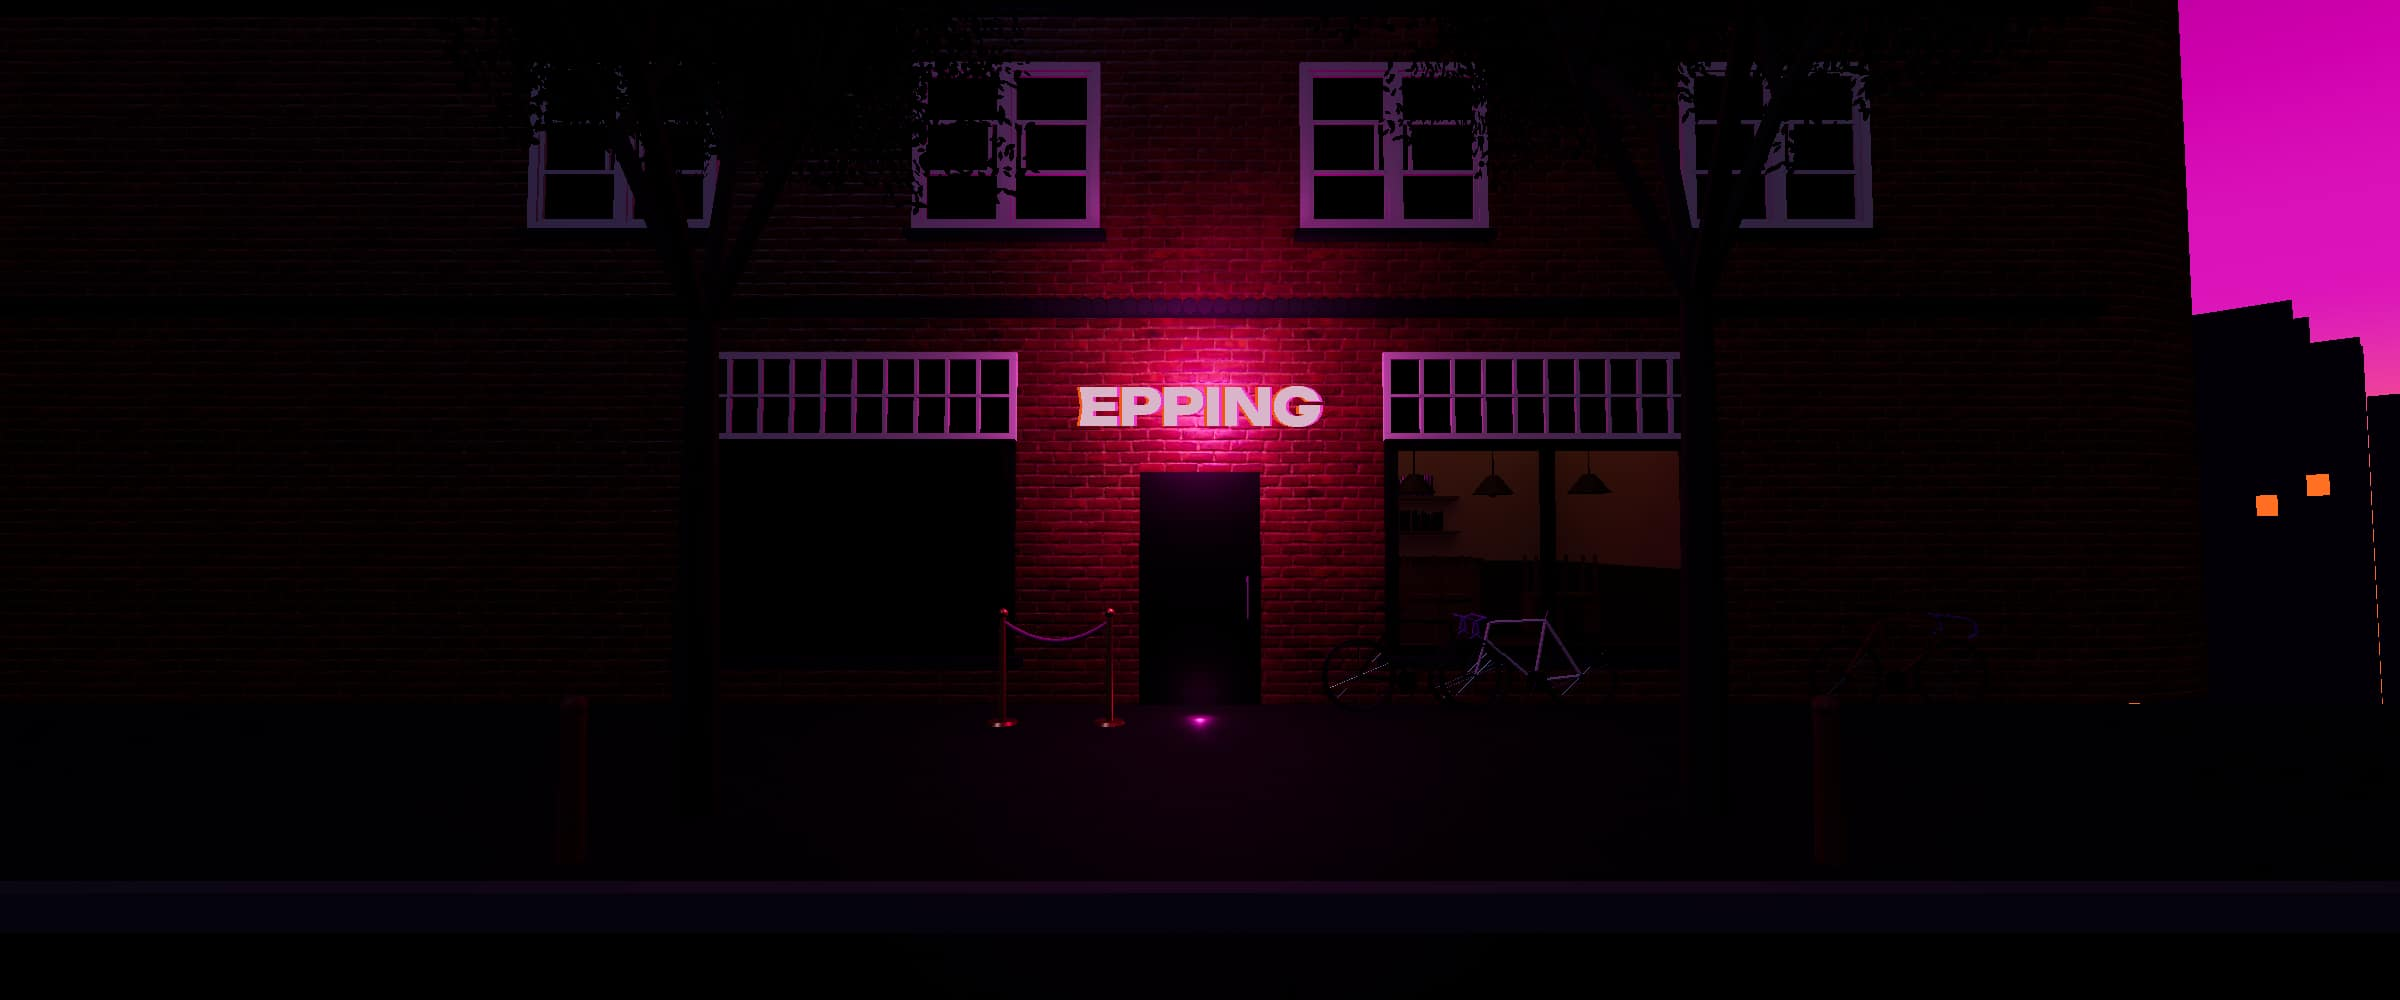
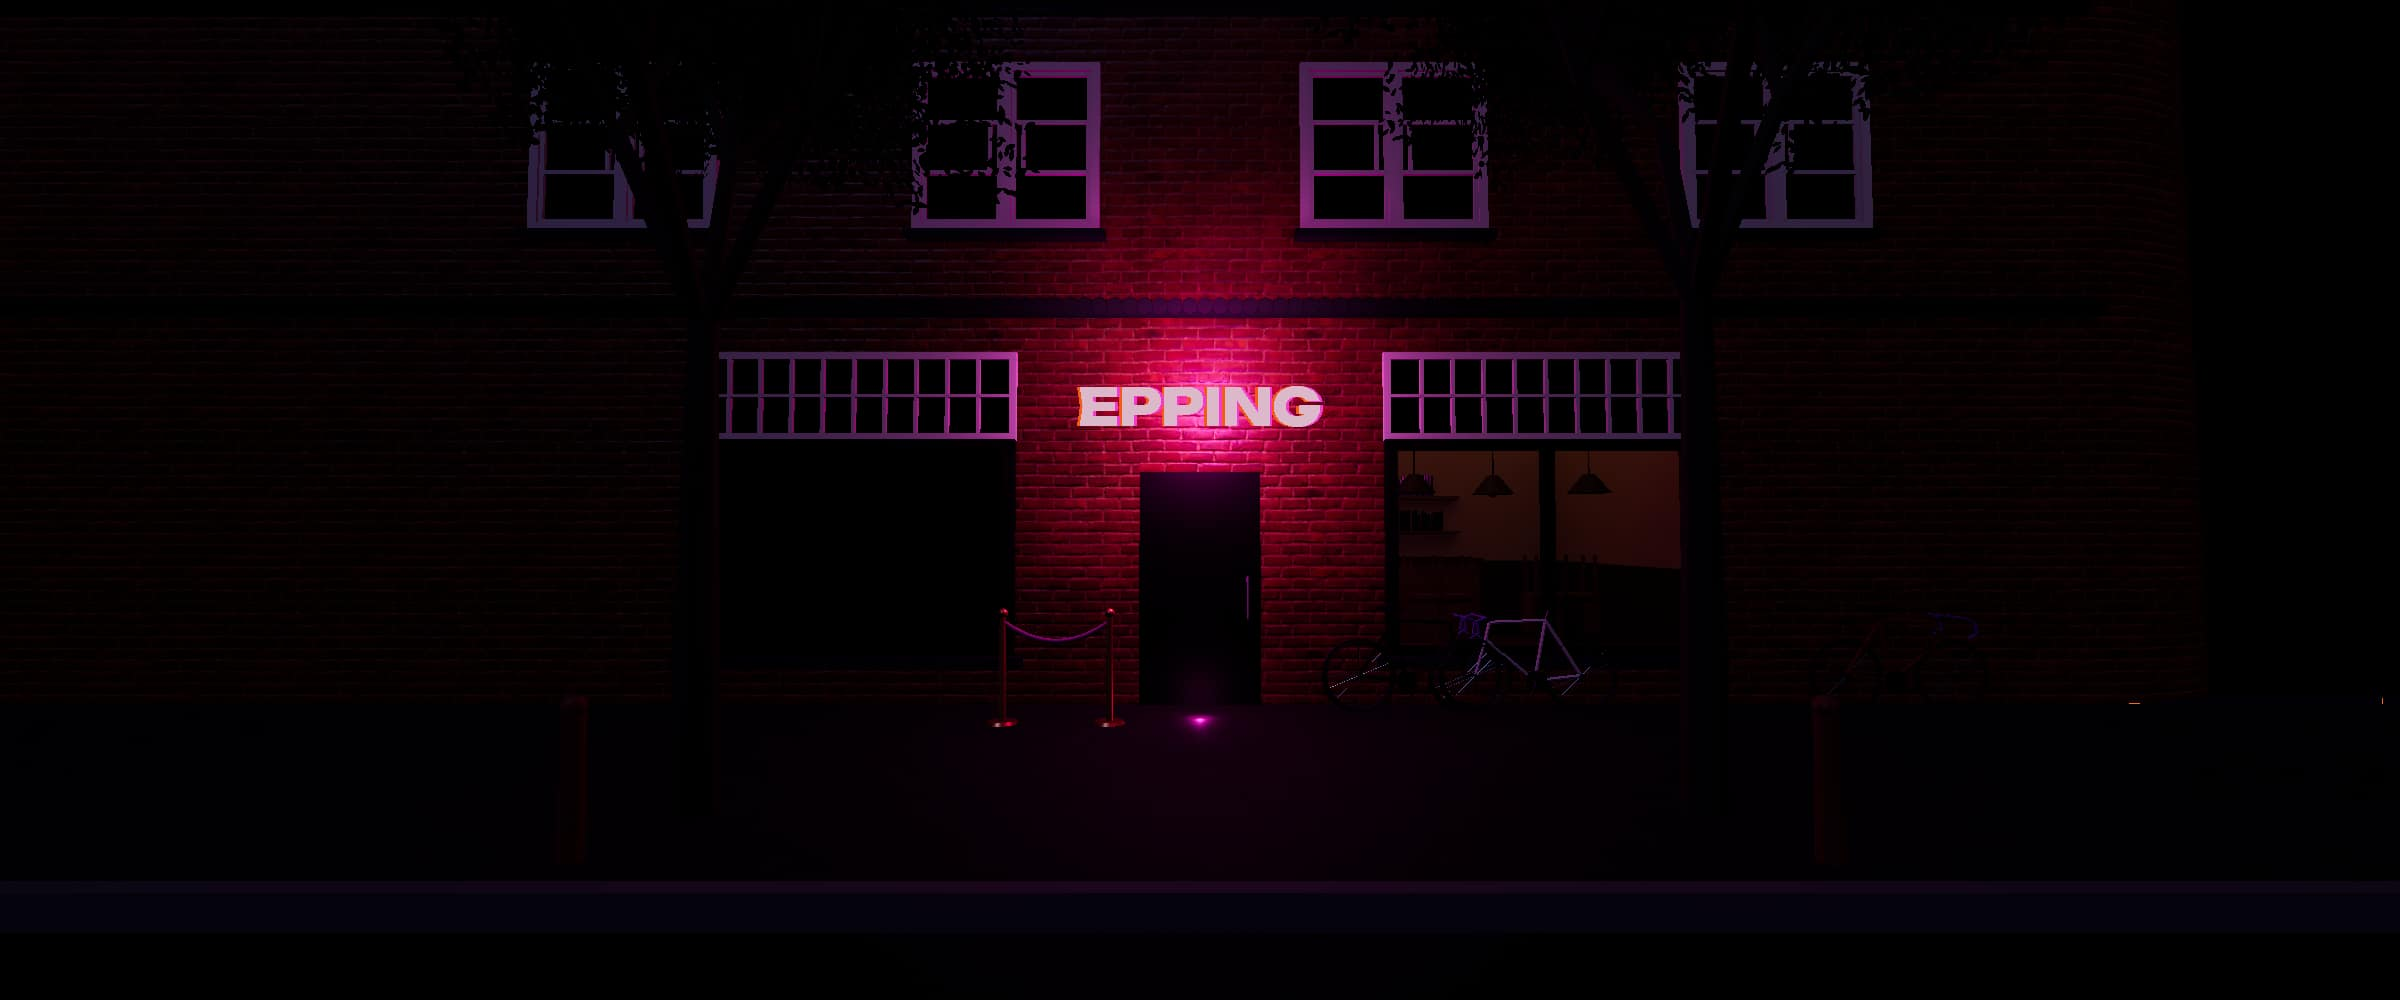
Street: dark block past the right corner (pink sky on wide screens), new stills

Changed region(s): [[0.9062, 0.0, 1.0, 0.403], [0.9375, 0.465, 0.9688, 0.527]]

diff --git a/src/entrance/world.ts b/src/entrance/world.ts
@@ -159,6 +159,9 @@ export function buildWorld(): World {
   // dark ground just under the road: hairline cracks between kerb and road (seen on iPhones) showed the orange sky below the horizon
   const under = new THREE.Mesh(new THREE.PlaneGeometry(80, 40), new THREE.MeshBasicMaterial({ color: C('#020103') }));
   under.rotation.x = -Math.PI / 2; under.position.set(0, -0.26, 20); scene.add(under);
+  // a dark neighbouring block past the round corner on the right: on wide screens the pink sky (and a lit skyline window) showed there
+  const block = new THREE.Mesh(new THREE.BoxGeometry(30, 30, 40), new THREE.MeshBasicMaterial({ color: C('#050207') }));
+  block.position.set(11.6 + 15, 15 - 0.3, -2.0 - 20); scene.add(block); // street only: from the roof it would wall off the skyline
 
   // the door: plain black leaf, hinged on the left, swings inward
   const doorMat = new THREE.MeshStandardMaterial({ color: C('#040205'), roughness: 0.55 });
@@ -480,6 +483,7 @@ export function buildWorld(): World {
   const tmp = new THREE.Color();
   function update(t: number, kick: number, camera: THREE.Camera) {
     sky.position.copy(camera.position);
+    block.visible = camera.position.y < 5;
     const k = 0.6 + 0.4 * kick;
     for (const p of pulse) p.mat.color.copy(p.base).multiplyScalar(lerp(1, k, p.k));
     for (let i = 0; i < N; i++) noses.setColorAt(i, tmp.copy(noseBase[i]).multiplyScalar(k));

diff --git a/AGENTS.md b/AGENTS.md
@@ -30,7 +30,7 @@ Website for Epping: DJ and party organizer. (`CLAUDE.md` is a symlink to this fi
 - **Street still: LIVE since 2026-10-06** (`poster` merged): no loader at all. A still of the street's opening frame (`public/media/street-{landscape,portrait}.jpg`, 90/60 KB) shows instantly; the canvas renders invisibly behind it and takes over once the street + all its textures are in. The street model + Draco decoder are preloaded from the head script. Preview https://claude.ai/artifact/Ty3FzGoKFTGsZPCPbJNf3S. **Re-render the stills after any street change:** Playwright screenshot of the live 3D street (HUD + hint hidden, ~3 s after `ent-3d`) at 2400×1000 (landscape) and 1200×1201 (portrait, so fov 74), dpr 1, then sharp → JPEG q72 mozjpeg.
 - **Door pace: LIVE since 2026-10-06** (`door-pace` merged): tapping the street door walks slower and smoother (~4.5 s, sine easing, ends at p 0.38), the walk and the step through the doorway now share one steady pace (the old version slowed at the door, then lurched through), and the door opens over a longer stretch. Preview https://claude.ai/artifact/Ty3FzGoKFTGsZPCPbJNf3S.
 - **Teaser post (open, 2026-10-06):** the user doubts how busy the street is; deciding via an Instagram teaser of the door (video later, only the sign flickers). Mockups A–E (A as live, B dark café + no flyer, C brick wall, D brick wall close, E = B without bikes/trees): https://claude.ai/artifact/MyJK2gUXHVx8rFhzUqCie2, source + 1080×1350 renders in `media EPPING website/ig-teaser/`. Rendered from the live scene with a temporary `window.__ent` hook in app.ts (not committed) and Playwright edits: hide by material name (`cafe_*`, `bike*`, `leaf`, `bark`…), flyer = mesh at x −2.5, brick wall = textured plane at z 0.25 with a door hole, sign + door moved forward. Pick → maybe apply to the site. **Decision (user, 2026-10-06): option C (brick wall: no shopfronts, café, upstairs windows or flyer) and no bikes**, for the post and the site. Trees stay for now. Realism is not a goal: it just needs to look cool, make people curious about the door, and put the brand first. Mockup 'C, without the bikes' (post + site desktop/phone) is at the top of the same page. Next: apply to the site (and decide on the styling ideas: stronger pink wash/vignette, ground haze, brighter door leak, bigger sign, Presents flyer pasted on the wall), then the teaser video (sign flicker).
-- **Street v2: LIVE since 2026-10-06** (`dark-window` merged): `blender/street.py` re-baked (Metal GPU, ~5 min; then recompress lightmaps q76 + re-render the loading stills). Symmetric facade around the door (both shop windows 1.9..5.0 m), upstairs windows after the user's photo `media EPPING website/inbox/IMG_4616.heic` (two off-white casements: tall top pane, middle row split near the centre post, bottom pane; first floor at x ±1.95/±5.8, floors above ±2.95/±6.8, all dark), trees mirrored at ±3.0, café soft-lit with its pendant off (`CAFE_LIT`, `CAFE_LAMP`), no Presents flyer. Window frames crisper since 2026-10-07 (branch `crisp-windows`): trim lightmap 2048 (q84) and lightmap UVs repacked square (`pack_islands` CARDINAL), since islands at odd angles gave the thin bars jagged edges. Bikes still only on the right.
+- **Street v2: LIVE since 2026-10-06** (`dark-window` merged): `blender/street.py` re-baked (Metal GPU, ~5 min; then recompress lightmaps q76 + re-render the loading stills). Symmetric facade around the door (both shop windows 1.9..5.0 m), upstairs windows after the user's photo `media EPPING website/inbox/IMG_4616.heic` (two off-white casements: tall top pane, middle row split near the centre post, bottom pane; first floor at x ±1.95/±5.8, floors above ±2.95/±6.8, all dark), trees mirrored at ±3.0, café soft-lit with its pendant off (`CAFE_LIT`, `CAFE_LAMP`), no Presents flyer. Window frames crisper since 2026-10-07 (branch `crisp-windows`): trim lightmap 2048 (q84) and lightmap UVs repacked square (`pack_islands` CARDINAL), since islands at odd angles gave the thin bars jagged edges. Dark block past the right corner (`block` in world.ts, street only) hides the pink sky on wide screens; the teaser blackout also covers the threshold (an orange sky line showed under it). Bikes still only on the right.
 - **Teaser: LIVE since 2026-10-06** (coming soon, option B): through the street door the screen fades to black with the flickering EPPING sign, "Doors open soon", "Follow @epping.music" and "Back to the street" (`.soon` in Entrance.astro, `TEASER` in app.ts: the open door shows only black (`world.blackout`, no stairs visible), the fade is tied to the walk (black by p 0.36), scrolling stops in the doorway (p 0.37), Skip hidden, music keeps playing muffled; Umami event `teaser-soon`). Floor pages and the no-3D page stay reachable (user's choice). **At launch:** `TEASER = false`, remove `.soon`. Teaser post from the live street v2: `~/Downloads/epping-teaser-post-street.jpg` (1080×1350, copy in `media EPPING website/ig-teaser/`); the older brick-wall one is `epping-teaser-post.jpg`. Teaser video (2026-10-07): `~/Downloads/epping-teaser-video.mp4` (1080×1350, 10 s, 30 fps, silent; copy in `ig-teaser/`): real frames of the live street with the site's own flicker + 128 BPM pulse, rendered with Playwright `page.clock` (deterministic time, `runFor(1000/30)` per screenshot) and the temp `__ent` hook freezing the camera at (0, 1.7, 6.6) → (0, 2.35, −2). Street option mockups: https://claude.ai/artifact/Qmxd9c1Sdh6dE5u4S88BqP.
 - **SEO / AI visibility (brainstorm, 2026-10-06):** goal = show up when people ask ChatGPT/Google for a (rave) wedding DJ in Amsterdam. Audience: Dutch couples + internationals/expats. Approach: own the niche ("rave wedding", "techno/house wedding DJ Amsterdam", NL "techno bruiloft"/"rave bruiloft"), not broad "wedding DJ Amsterdam". Proof so far: a few gigs, couples willing to review.
   - Site track (Claude): search terms in Rave Wedding title/meta/copy (page never says "DJ"/"Amsterdam" yet); sitemap, robots.txt, structured data (local DJ business + services), og:image; FAQ per floor + About block + reviews block; Dutch pages `/nl/techno-bruiloft/` + `/nl/feest-dj/` with hreflang. English stays the main language.
